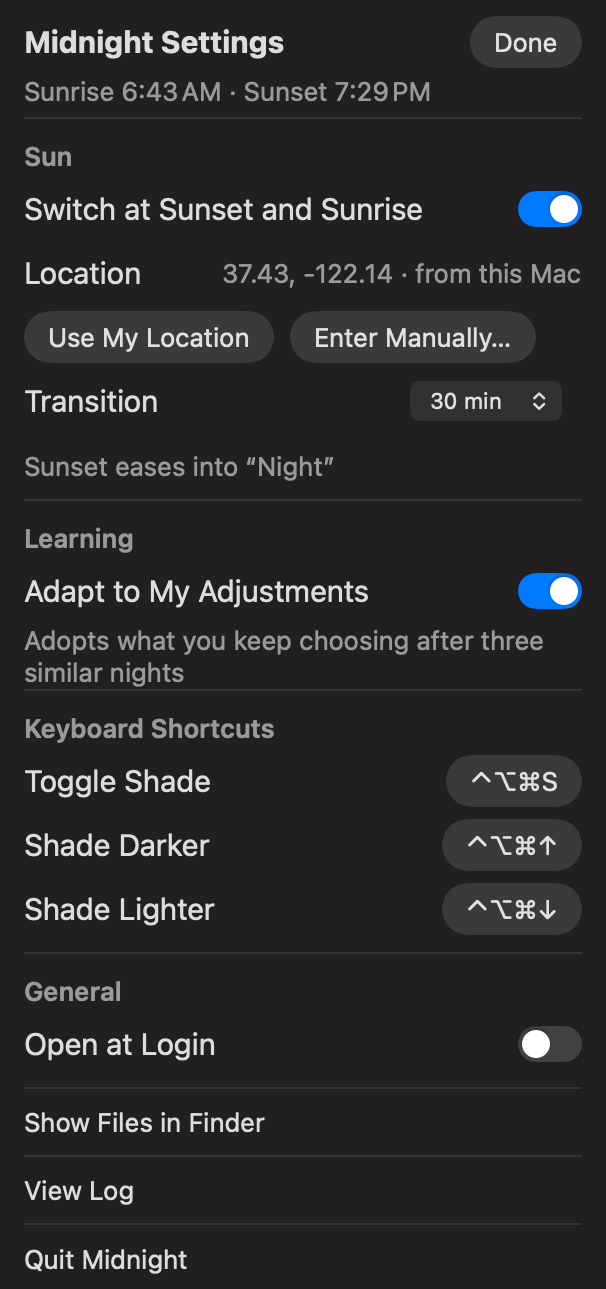
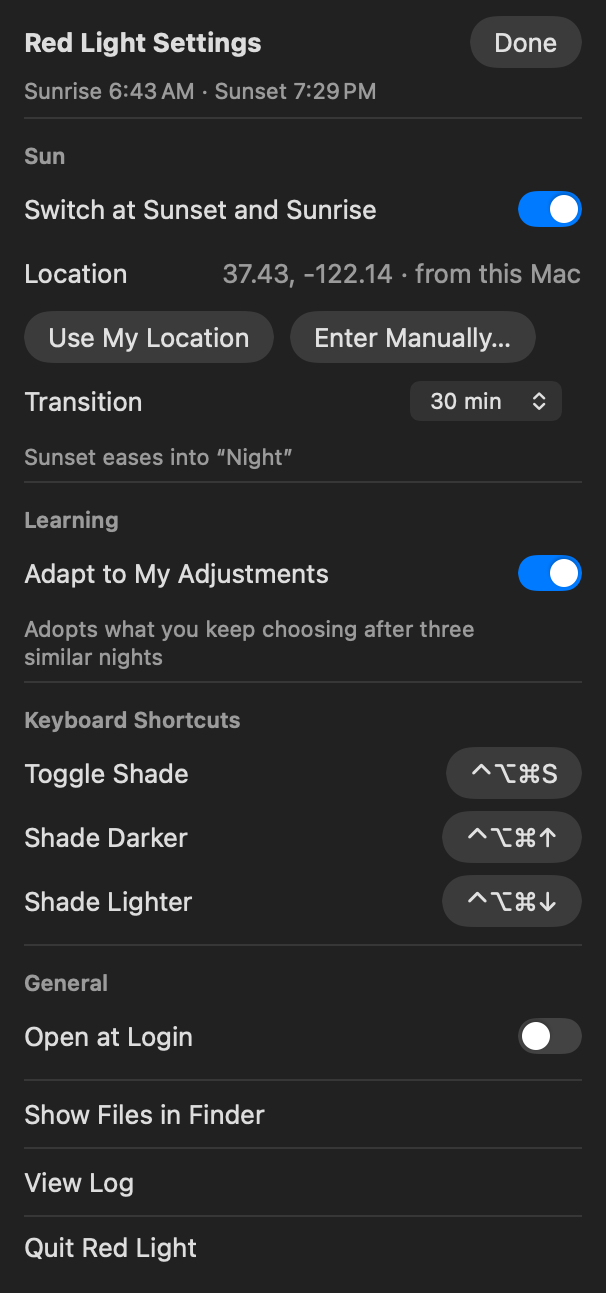
Panel type, colour and rhythm taken from AppKit rather than chosen
Text styles: .headline 13 bold for the title, .body 13 regular for rows, 11 semibold for section
headers and their values. Colours are labelColor (84.7% black, never pure black), secondaryLabelColor,
separatorColor and quaternaryLabelColor. Symbols render monochrome at 12 pt regular in labelColor.
Closing row and bottom margin now measure 17 and 21.5 pt, matching the Sound panel.

diff --git a/app/RedLightApp.swift b/app/RedLightApp.swift
@@ -396,14 +396,20 @@ extension Double { func rounded(toPlaces p: Int) -> Double { let m = pow(10.0, D
 // MARK: - Control Center design language (measured from the Battery panel at 2x)
 enum CC {
     static let side: CGFloat = 12
-    static let title = Font.system(size: 13, weight: .semibold)
-    static let value = Font.system(size: 15, weight: .semibold)
-    static let row = Font.system(size: 15)
-    static let small = Font.system(size: 13)
-    static let subtitle = Font.system(size: 11)
-    static let header = Font.system(size: 13, weight: .semibold)
-    static let sep = Color.primary.opacity(0.10)
-    static let circle = Color.primary.opacity(0.12)
+    // macOS text styles, verbatim: .headline is 13 pt bold, .body 13 pt regular, .subheadline 11 pt regular.
+    // A Control Center section header ("Output", "Energy Mode") is the subheadline size in semibold secondary.
+    static let title    = Font.system(size: 13, weight: .bold)      // .headline
+    static let row      = Font.system(size: 13)                     // .body
+    static let small    = Font.system(size: 13)                     // .body
+    static let subtitle = Font.system(size: 11)                     // .subheadline
+    static let header   = Font.system(size: 11, weight: .semibold)  // section header
+    static let value    = Font.system(size: 11, weight: .semibold)  // its right-hand value, same treatment
+    // System colours, not opacities of our own choosing. labelColor is 84.7 % black, never pure black.
+    static let label     = Color(nsColor: .labelColor)
+    static let secondary = Color(nsColor: .secondaryLabelColor)
+    static let sep       = Color(nsColor: .separatorColor)
+    static let circle    = Color(nsColor: .quaternaryLabelColor)
+    static let symbol    = Color(nsColor: .labelColor)
 }
 struct Step: Identifiable { let label: String; let value: Double?; var id: String { label } }
 // Denser above the 60 % knee, where blue is already gone and each step is a different feel of red.
@@ -425,8 +431,8 @@ struct TitleBlock<Trailing: View>: View {
     let title: String; let subtitle: String; @ViewBuilder let trailing: () -> Trailing
     var body: some View {
         VStack(alignment: .leading, spacing: 0) {
-            HStack { Text(title).font(CC.title); Spacer(); trailing() }.frame(height: 32).padding(.top, 5)
-            HStack { Text(subtitle).font(CC.subtitle).foregroundStyle(.secondary); Spacer() }.frame(height: 17)
+            HStack { Text(title).font(CC.title).foregroundStyle(CC.label); Spacer(); trailing() }.frame(height: 32).padding(.top, 5)
+            HStack { Text(subtitle).font(CC.subtitle).foregroundStyle(CC.secondary); Spacer() }.frame(height: 17)
             Line().padding(.top, 4.5)
         }
     }
@@ -434,7 +440,7 @@ struct TitleBlock<Trailing: View>: View {
 struct Header: View {
     let text: String; var value: String? = nil
     var body: some View {
-        HStack { Text(text).font(CC.header).foregroundStyle(.secondary); Spacer(); if let v = value { Text(v).font(CC.value).foregroundStyle(.secondary) } }
+        HStack { Text(text).font(CC.header).foregroundStyle(CC.secondary); Spacer(); if let v = value { Text(v).font(CC.value).foregroundStyle(CC.secondary) } }
             .frame(height: 21).padding(.top, 8)
     }
 }
@@ -443,12 +449,15 @@ struct IconRow: View {
     var body: some View {
         HStack(spacing: 9) {
             ZStack {
-                Circle().fill(active ? Color.accentColor : CC.circle).frame(width: 26, height: 26)
-                Image(systemName: icon).font(.system(size: 13, weight: .medium)).foregroundStyle(active ? .white : .primary)
+                Circle().fill(active ? Color(nsColor: .controlAccentColor) : CC.circle).frame(width: 26, height: 26)
+                Image(systemName: icon)
+                    .font(.system(size: 12, weight: .regular))
+                    .symbolRenderingMode(.monochrome)
+                    .foregroundStyle(active ? Color.white : CC.symbol)
             }
-            Text(label).font(CC.row)
+            Text(label).font(CC.row).foregroundStyle(CC.label)
             Spacer()
-            if let t = trailing { Text(t).font(CC.small).foregroundStyle(.secondary) }
+            if let t = trailing { Text(t).font(CC.small).foregroundStyle(CC.secondary) }
         }
         .frame(height: 32).contentShape(Rectangle())
     }
@@ -518,11 +527,21 @@ struct SliderRow: View {
 struct SectionEnd: View { var body: some View { Line().padding(.top, 5.5) } }
 struct TextRow: View {
     let text: String; var secondary = false
-    var body: some View { HStack { Text(text).font(CC.small).foregroundStyle(secondary ? .secondary : .primary); Spacer() }.frame(height: 33).contentShape(Rectangle()) }
+    var body: some View {
+        if secondary {
+            // explanatory line: .subheadline secondary, wrapping to as many lines as it needs
+            HStack(alignment: .top) {
+                Text(text).font(CC.subtitle).foregroundStyle(CC.secondary).fixedSize(horizontal: false, vertical: true)
+                Spacer(minLength: 0)
+            }.padding(.vertical, 5)
+        } else {
+            HStack { Text(text).font(CC.small).foregroundStyle(CC.label); Spacer() }.frame(height: 33).contentShape(Rectangle())
+        }
+    }
 }
 struct SettingsRow: View {
     let text: String
-    var body: some View { HStack { Text(text).font(CC.small); Spacer() }.frame(height: 34).padding(.bottom, 5).contentShape(Rectangle()) }
+    var body: some View { HStack { Text(text).font(CC.small).foregroundStyle(CC.label); Spacer() }.frame(height: 30).padding(.bottom, 8).contentShape(Rectangle()) }
 }
 /// The system switch, or — only while exporting a documentation image — an identical drawing of it.
 struct SwitchView: View {
@@ -557,7 +576,7 @@ struct PillButton: View {
 }
 struct ToggleRow: View {
     let label: String; let isOn: Binding<Bool>; var drawn = false
-    var body: some View { HStack { Text(label).font(CC.row); Spacer(); SwitchView(isOn: isOn, small: true, drawn: drawn) }.frame(height: 32) }
+    var body: some View { HStack { Text(label).font(CC.row).foregroundStyle(CC.label); Spacer(); SwitchView(isOn: isOn, small: true, drawn: drawn) }.frame(height: 32) }
 }
 
 // MARK: - Main panel
@@ -678,7 +697,7 @@ struct SettingsPage: View {
             Header(text: "Sun")
             ToggleRow(label: "Switch at Sunset and Sunrise", isOn: Binding(get: { m.agentRunning }, set: { m.setAgent($0) }), drawn: m.snapshotMode)
             HStack {
-                Text("Location").font(CC.row); Spacer()
+                Text("Location").font(CC.row).foregroundStyle(CC.label); Spacer()
                 Text(locationLabel).font(CC.small).foregroundStyle(.secondary)
             }.frame(height: 32)
             if m.locationDenied && m.config.locationSource != "manual" {
@@ -698,7 +717,7 @@ struct SettingsPage: View {
                 }.textFieldStyle(.roundedBorder).controlSize(.small).frame(height: 32)
             }
             HStack {
-                Text("Transition").font(CC.row); Spacer()
+                Text("Transition").font(CC.row).foregroundStyle(CC.label); Spacer()
                 Picker("", selection: Binding(get: { m.config.fadeMinutes ?? 30 }, set: { m.config.fadeMinutes = $0; m.saveConfig(reapply: false) })) {
                     ForEach(fades, id: \.1) { Text($0.0).tag($0.1) }
                 }.labelsHidden().controlSize(.small).frame(width: 96)
@@ -741,7 +760,7 @@ struct SettingsPage: View {
         switch m.config.locationSource { case "auto": return "\(c) · from this Mac"; case "manual": return "\(c) · manual"; default: return "\(c) · guessed from time zone" }
     }
     func shortcutRow(_ label: String, _ key: String, _ sc: Shortcut) -> some View {
-        HStack { Text(label).font(CC.row); Spacer()
+        HStack { Text(label).font(CC.row).foregroundStyle(CC.label); Spacer()
             PillButton(title: m.recording == key ? "Recording…" : describe(sc), drawn: m.snapshotMode) { m.recording == key ? m.stopRecording() : m.startRecording(key) }
         }.frame(height: 32)
     }
@@ -768,11 +787,12 @@ func snapshotIfRequested() {
     DispatchQueue.main.asyncAfter(deadline: .now() + 3.0) {
         model.refresh()
         DispatchQueue.main.asyncAfter(deadline: .now() + 1.5) {
-            let host = NSHostingView(rootView: SnapshotRoot(m: model, page: page))
-            host.appearance = NSAppearance(named: .darkAqua)
+            let ap = NSAppearance(named: args.contains("light") ? .aqua : .darkAqua)
+            let host = NSHostingView(rootView: SnapshotRoot(m: model, page: page, light: args.contains("light")))
+            host.appearance = ap
             host.frame = NSRect(x: 0, y: 0, width: 303, height: 10)
             let win = NSWindow(contentRect: host.frame, styleMask: .borderless, backing: .buffered, defer: false)
-            win.appearance = NSAppearance(named: .darkAqua)
+            win.appearance = ap
             win.isOpaque = false; win.backgroundColor = .clear; win.contentView = host; win.orderFront(nil)
             DispatchQueue.main.asyncAfter(deadline: .now() + 2.0) {
                 let size = host.fittingSize
@@ -793,11 +813,12 @@ func snapshotIfRequested() {
     app.run()
 }
 struct SnapshotRoot: View {
-    @ObservedObject var m: Model; let page: String
+    @ObservedObject var m: Model; let page: String; var light = false
     var body: some View {
         Group { if page == "main" { Panel(m: m) } else { SettingsPage(m: m, back: {}) .frame(width: 303) } }
             .fixedSize(horizontal: false, vertical: true)
-            .background(Color(red: 0.13, green: 0.12, blue: 0.12))   // stands in for the system glass in the export
+            // stands in for the system glass in the export, at the tone each appearance shows through it
+            .background(light ? Color(white: 0.96) : Color(white: 0.13))
     }
 }
 
